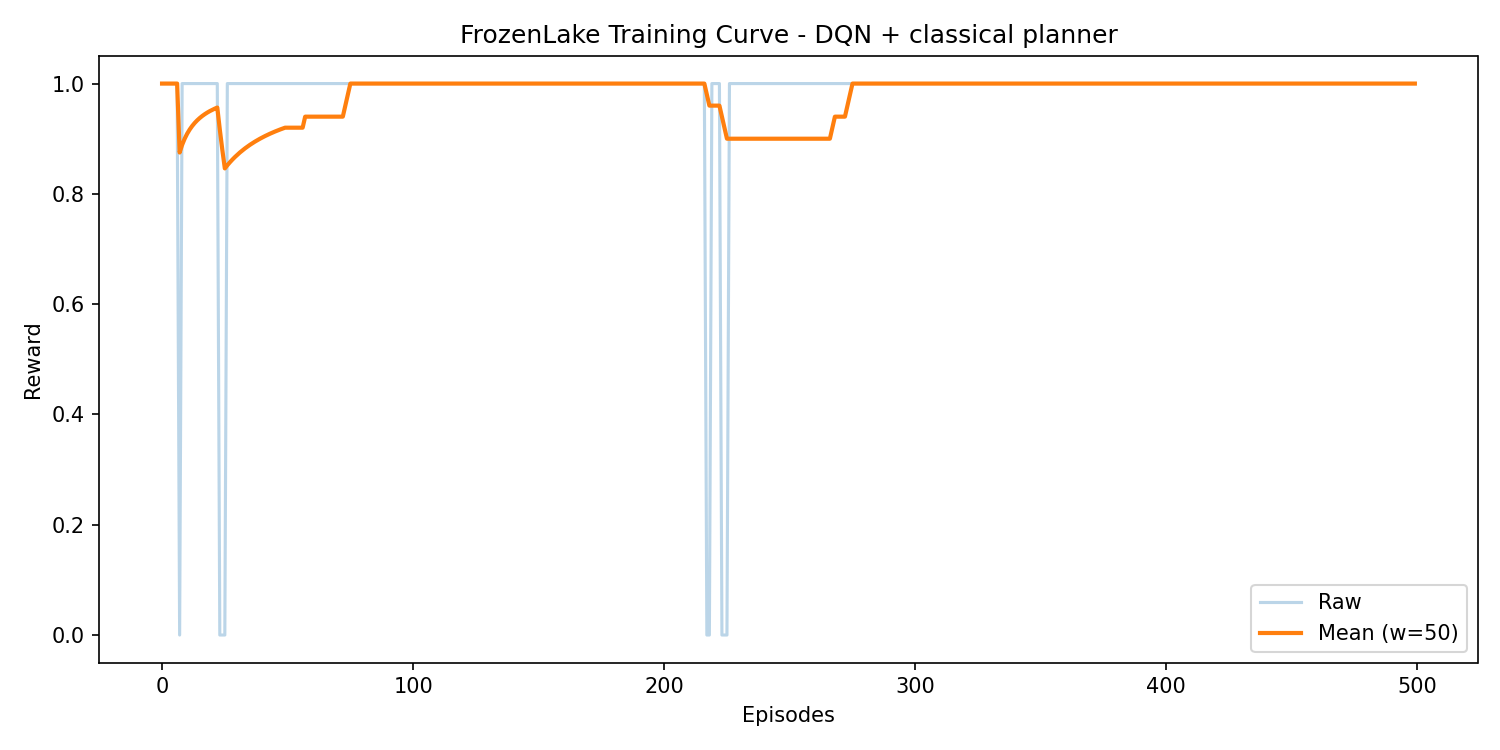
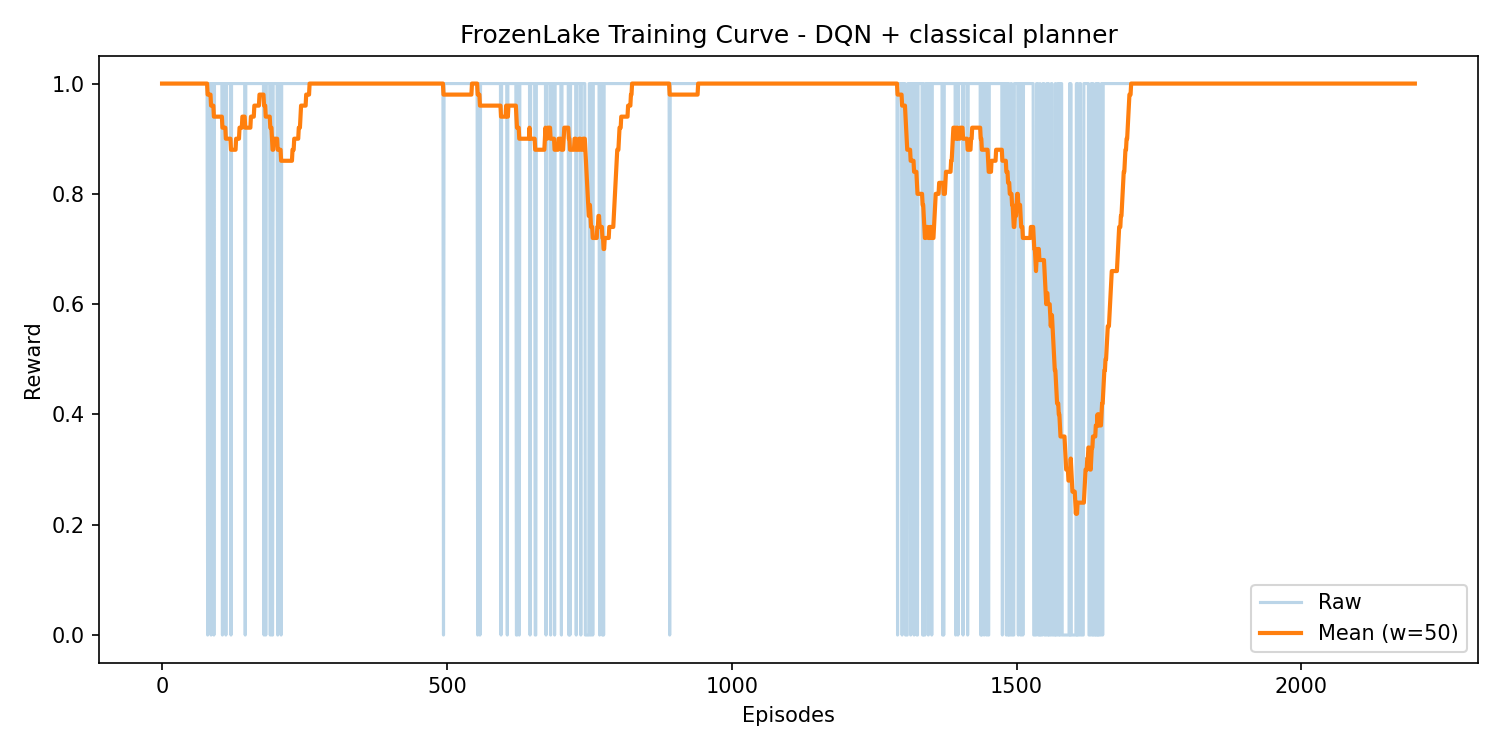
enhancement seed change for environment

diff --git a/planned-deterministic-frozen-lake/dqn_agent.py b/planned-deterministic-frozen-lake/dqn_agent.py
@@ -11,6 +11,7 @@ import torch.optim as optim
 import random
 from collections import deque
 from typing import Deque, Dict, List, Optional, Tuple
+from gymnasium.envs.toy_text.frozen_lake import generate_random_map
 
 import planner
 
@@ -31,14 +32,14 @@ def set_seed(seed: int) -> None:
 
 ENV_ID = "FrozenLake-v1"
 GAMMA = 0.99
-LR = 1e-3
+LR = 5e-4
 EPSILON_START = 1.0
 EPSILON_MIN = 0.05
-EPSILON_DECAY_STEPS = 5000
-MEMORY_SIZE = 5000
+EPSILON_DECAY_STEPS = 30000
+MEMORY_SIZE = 20000
 BATCH_SIZE = 64
-WARM_UP_STEPS = 128
-TARGET_UPDATE_STEPS = 50
+WARM_UP_STEPS = 1000
+TARGET_UPDATE_STEPS = 300
 # For each call to the planner in exploration: how many actions of the plan to execute consecutively
 PLANNED_ACTIONS_FROM_PLAN = 1
 
@@ -49,11 +50,14 @@ PLANNED_ACTIONS_FROM_PLAN = 1
 class QNetwork(nn.Module):
     def __init__(self, state_size, action_size):
         super().__init__()
-        hidden = 64
+        hidden1 = 128
+        hidden2 = 64
         self.net = nn.Sequential(
-            nn.Linear(state_size, hidden),
+            nn.Linear(state_size, hidden1),
             nn.ReLU(),
-            nn.Linear(hidden, action_size),
+            nn.Linear(hidden1, hidden2),
+            nn.ReLU(),
+            nn.Linear(hidden2, action_size)
         )
 
     def forward(self, x):
@@ -230,7 +234,7 @@ class DQNAgent:
 
         self.optimizer.zero_grad()
         loss.backward()
-        torch.nn.utils.clip_grad_norm_(self.model.parameters(), max_norm=10.0)
+        torch.nn.utils.clip_grad_norm_(self.model.parameters(), max_norm=1.0)
         self.optimizer.step()
 
         self.learn_steps += 1
@@ -251,7 +255,8 @@ def train_dqn(episodes, use_planner, rng_seed, env_seed, log_every=50):
     set_seed(rng_seed)
     env_base = env_seed
 
-    env = gym.make(ENV_ID)
+    desc = generate_random_map(size=6, p=0.8, seed=rng_seed)
+    env = gym.make(id=ENV_ID, desc=desc, is_slippery=False)
 
     state_size = env.observation_space.n
     action_size = env.action_space.n
@@ -271,7 +276,7 @@ def train_dqn(episodes, use_planner, rng_seed, env_seed, log_every=50):
     rewards = []
 
     for ep in range(episodes):
-        state, _ = env.reset(seed=env_base)
+        state, _ = env.reset(seed=env_base + ep)
         agent.flush_pending_plan_actions()
         done = False
         total_reward = 0
@@ -280,11 +285,20 @@ def train_dqn(episodes, use_planner, rng_seed, env_seed, log_every=50):
             action = agent.select_action(env, state)
 
             next_state, reward, terminated, truncated, _ = env.step(action)
+
+            if terminated:
+                if reward > 0:
+                    shaped_reward = 10.0
+                else:
+                    shaped_reward = -1.0
+            else:
+                shaped_reward = 0.0
+
             done = terminated or truncated
 
             agent.validate_planned_transition(next_state)
 
-            agent.store((state, action, reward, next_state, done))
+            agent.store((state, action, shaped_reward, next_state, done))
 
             agent.steps_done += 1
             agent.update_epsilon()
@@ -343,7 +357,9 @@ def test_dqn(agent, episodes, rng_seed=42, env_seed=42):
     set_seed(rng_seed)
     env_base = env_seed
 
-    env = gym.make(ENV_ID)
+    desc = generate_random_map(size=6, p=0.8, seed=rng_seed)
+    env = gym.make(id=ENV_ID, desc=desc, is_slippery=False)
+
     agent.epsilon = 0.0
     agent.steps_done = 0
     agent.planner_calls = 0
@@ -352,8 +368,8 @@ def test_dqn(agent, episodes, rng_seed=42, env_seed=42):
     agent.flush_pending_plan_actions()
 
     episode_rewards = []
-    for _ in range(episodes):
-        state, _ = env.reset(seed=env_base)
+    for ep in range(episodes):
+        state, _ = env.reset(seed=env_base + ep)
         agent.flush_pending_plan_actions()
         done = False
         total_reward = 0

diff --git a/planned-deterministic-frozen-lake/main.py b/planned-deterministic-frozen-lake/main.py
@@ -4,36 +4,38 @@ from plot_utility import plot_test_distribution, plot_training_curve
 
 # --- Run Configuration ---
 RNG_SEED = 42
-ENV_SEED = None  # if None, uses RNG_SEED for Gymnasium env.reset base
-TRAIN_EPISODES = 500
+TRAIN_ENV_SEED = None  # if None, uses RNG_SEED for Gymnasium training env.reset base
+TEST_ENV_SEED = None  # if None, uses RNG_SEED + 100_000 for Gymnasium test env.reset base
+TRAIN_EPISODES = 2200
 TEST_EPISODES = 100
 
 
 def main():
     print("FrozenLake: DQN + classical planner")
 
-    env_seed = ENV_SEED if ENV_SEED is not None else RNG_SEED
+    train_env_seed = TRAIN_ENV_SEED if TRAIN_ENV_SEED is not None else RNG_SEED
+    test_env_seed = TEST_ENV_SEED if TEST_ENV_SEED is not None else RNG_SEED + 100_000
 
     print("--- Training ---")
 
-    dqn_agent = train_dqn(episodes=TRAIN_EPISODES, use_planner=True, rng_seed=RNG_SEED, env_seed=env_seed)
+    dqn_agent = train_dqn(episodes=TRAIN_EPISODES, use_planner=True, rng_seed=RNG_SEED, env_seed=train_env_seed)
     plot_training_curve(dqn_agent.training_rewards, title="FrozenLake Training Curve - DQN + classical planner")
 
     print("--- Evaluation ---")
 
-    test_rewards = test_dqn(dqn_agent, episodes=TEST_EPISODES, rng_seed=RNG_SEED, env_seed=env_seed)
+    test_rewards = test_dqn(dqn_agent, episodes=TEST_EPISODES, rng_seed=RNG_SEED, env_seed=test_env_seed)
     plot_test_distribution(test_rewards, title="FrozenLake Test Distribution - DQN + classical planner")
 
     print("FrozenLake: DQN with NO classical planner")
 
     print("--- Training ---")
 
-    dqn_agent = train_dqn(episodes=TRAIN_EPISODES, use_planner=False, rng_seed=RNG_SEED, env_seed=env_seed)
+    dqn_agent = train_dqn(episodes=TRAIN_EPISODES, use_planner=False, rng_seed=RNG_SEED, env_seed=train_env_seed)
     plot_training_curve(dqn_agent.training_rewards, title="FrozenLake Training Curve - DQN with NO classical planner")
 
     print("--- Evaluation ---")
 
-    test_rewards = test_dqn(dqn_agent, episodes=TEST_EPISODES, rng_seed=RNG_SEED, env_seed=env_seed)
+    test_rewards = test_dqn(dqn_agent, episodes=TEST_EPISODES, rng_seed=RNG_SEED, env_seed=test_env_seed)
     plot_test_distribution(test_rewards, title="FrozenLake Test Distribution - DQN with NO classical planner")
 
 
